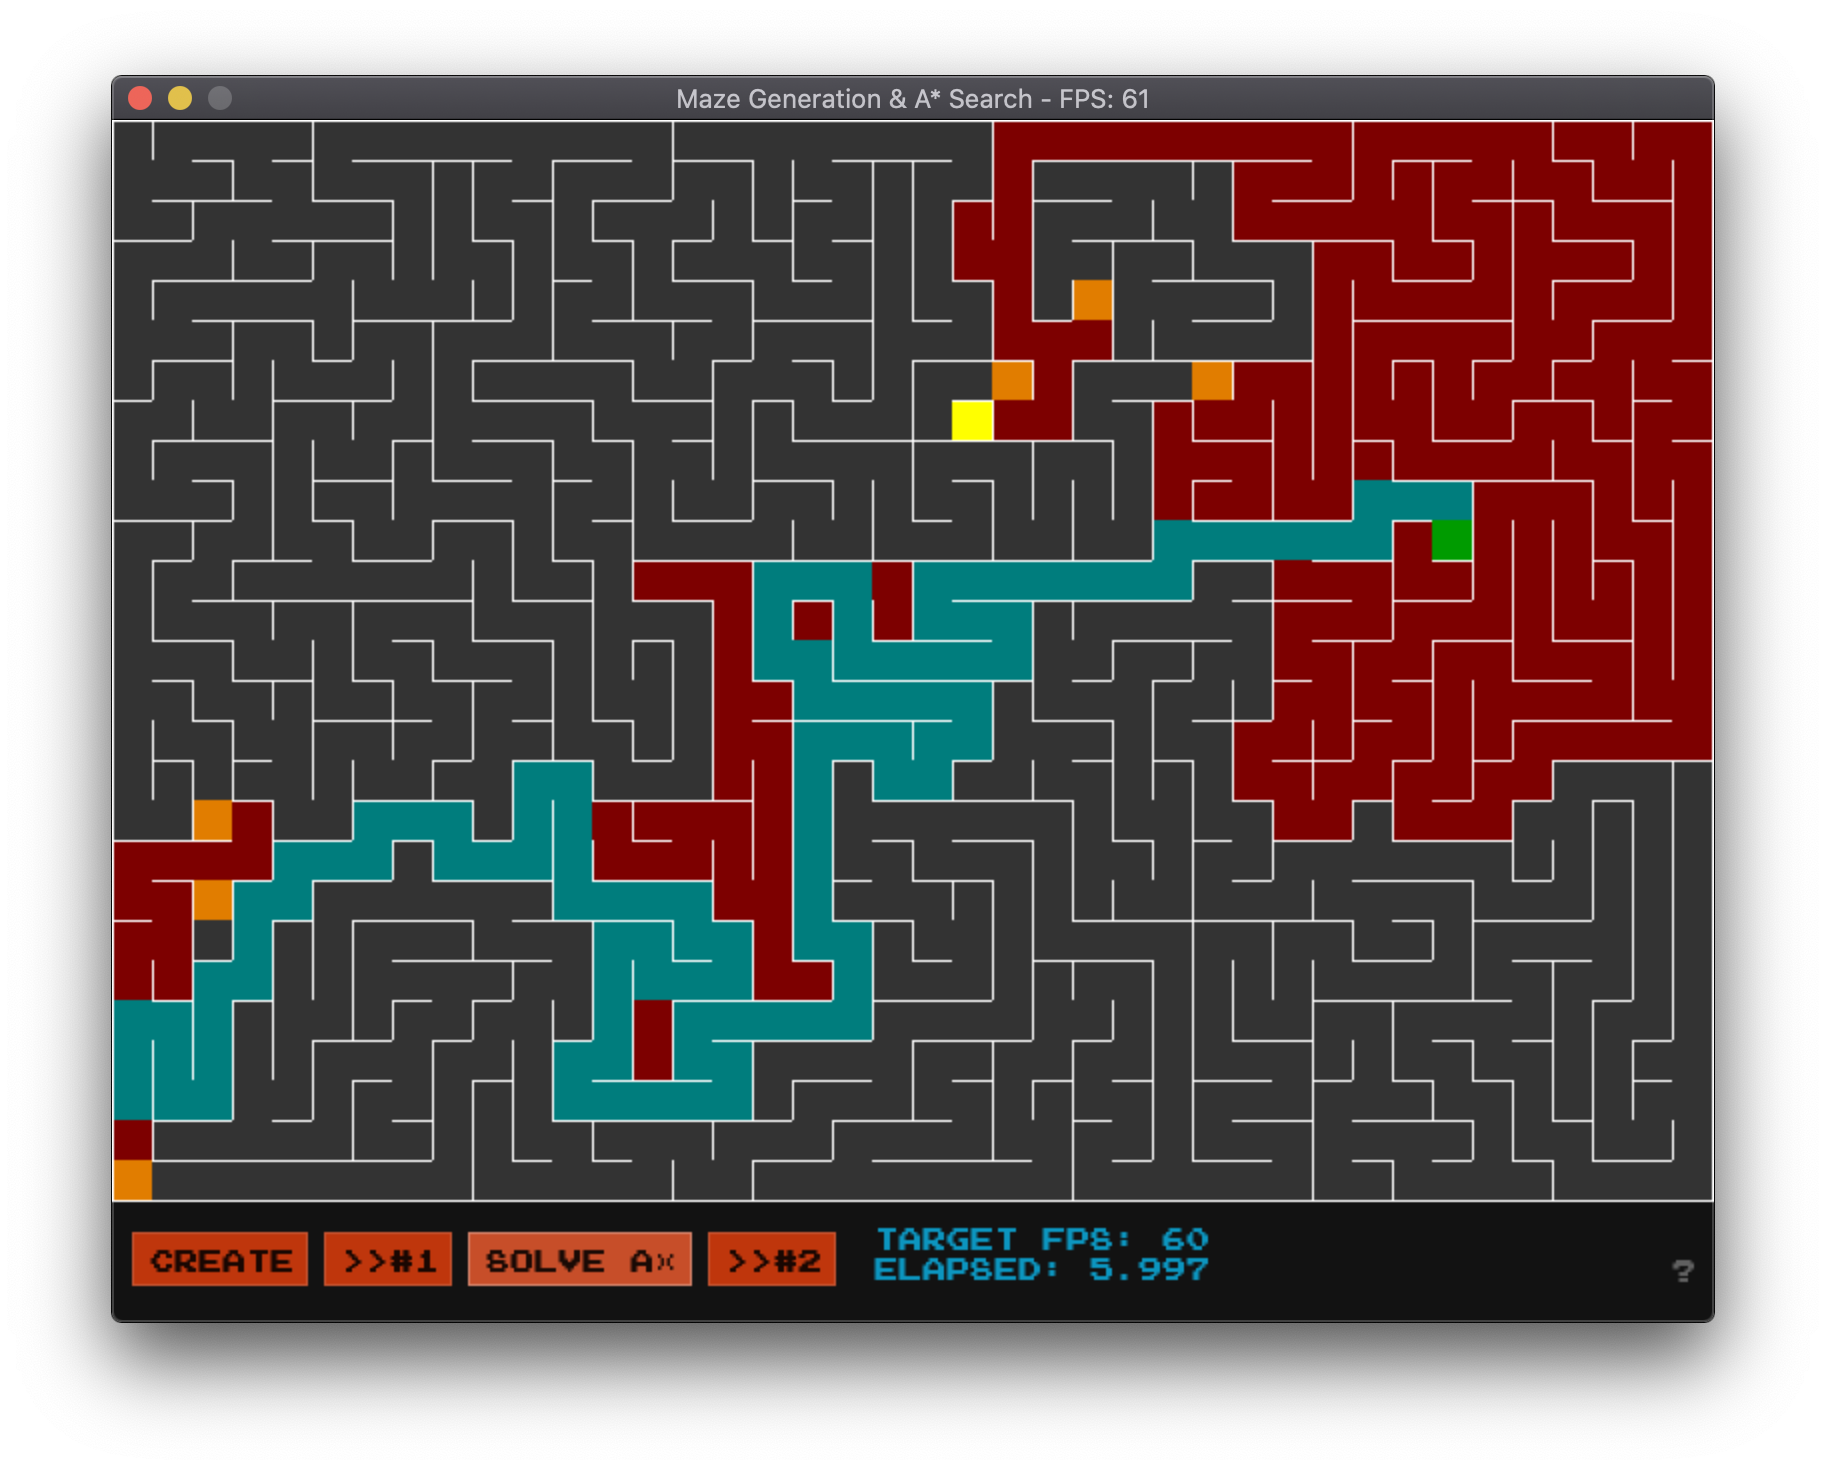
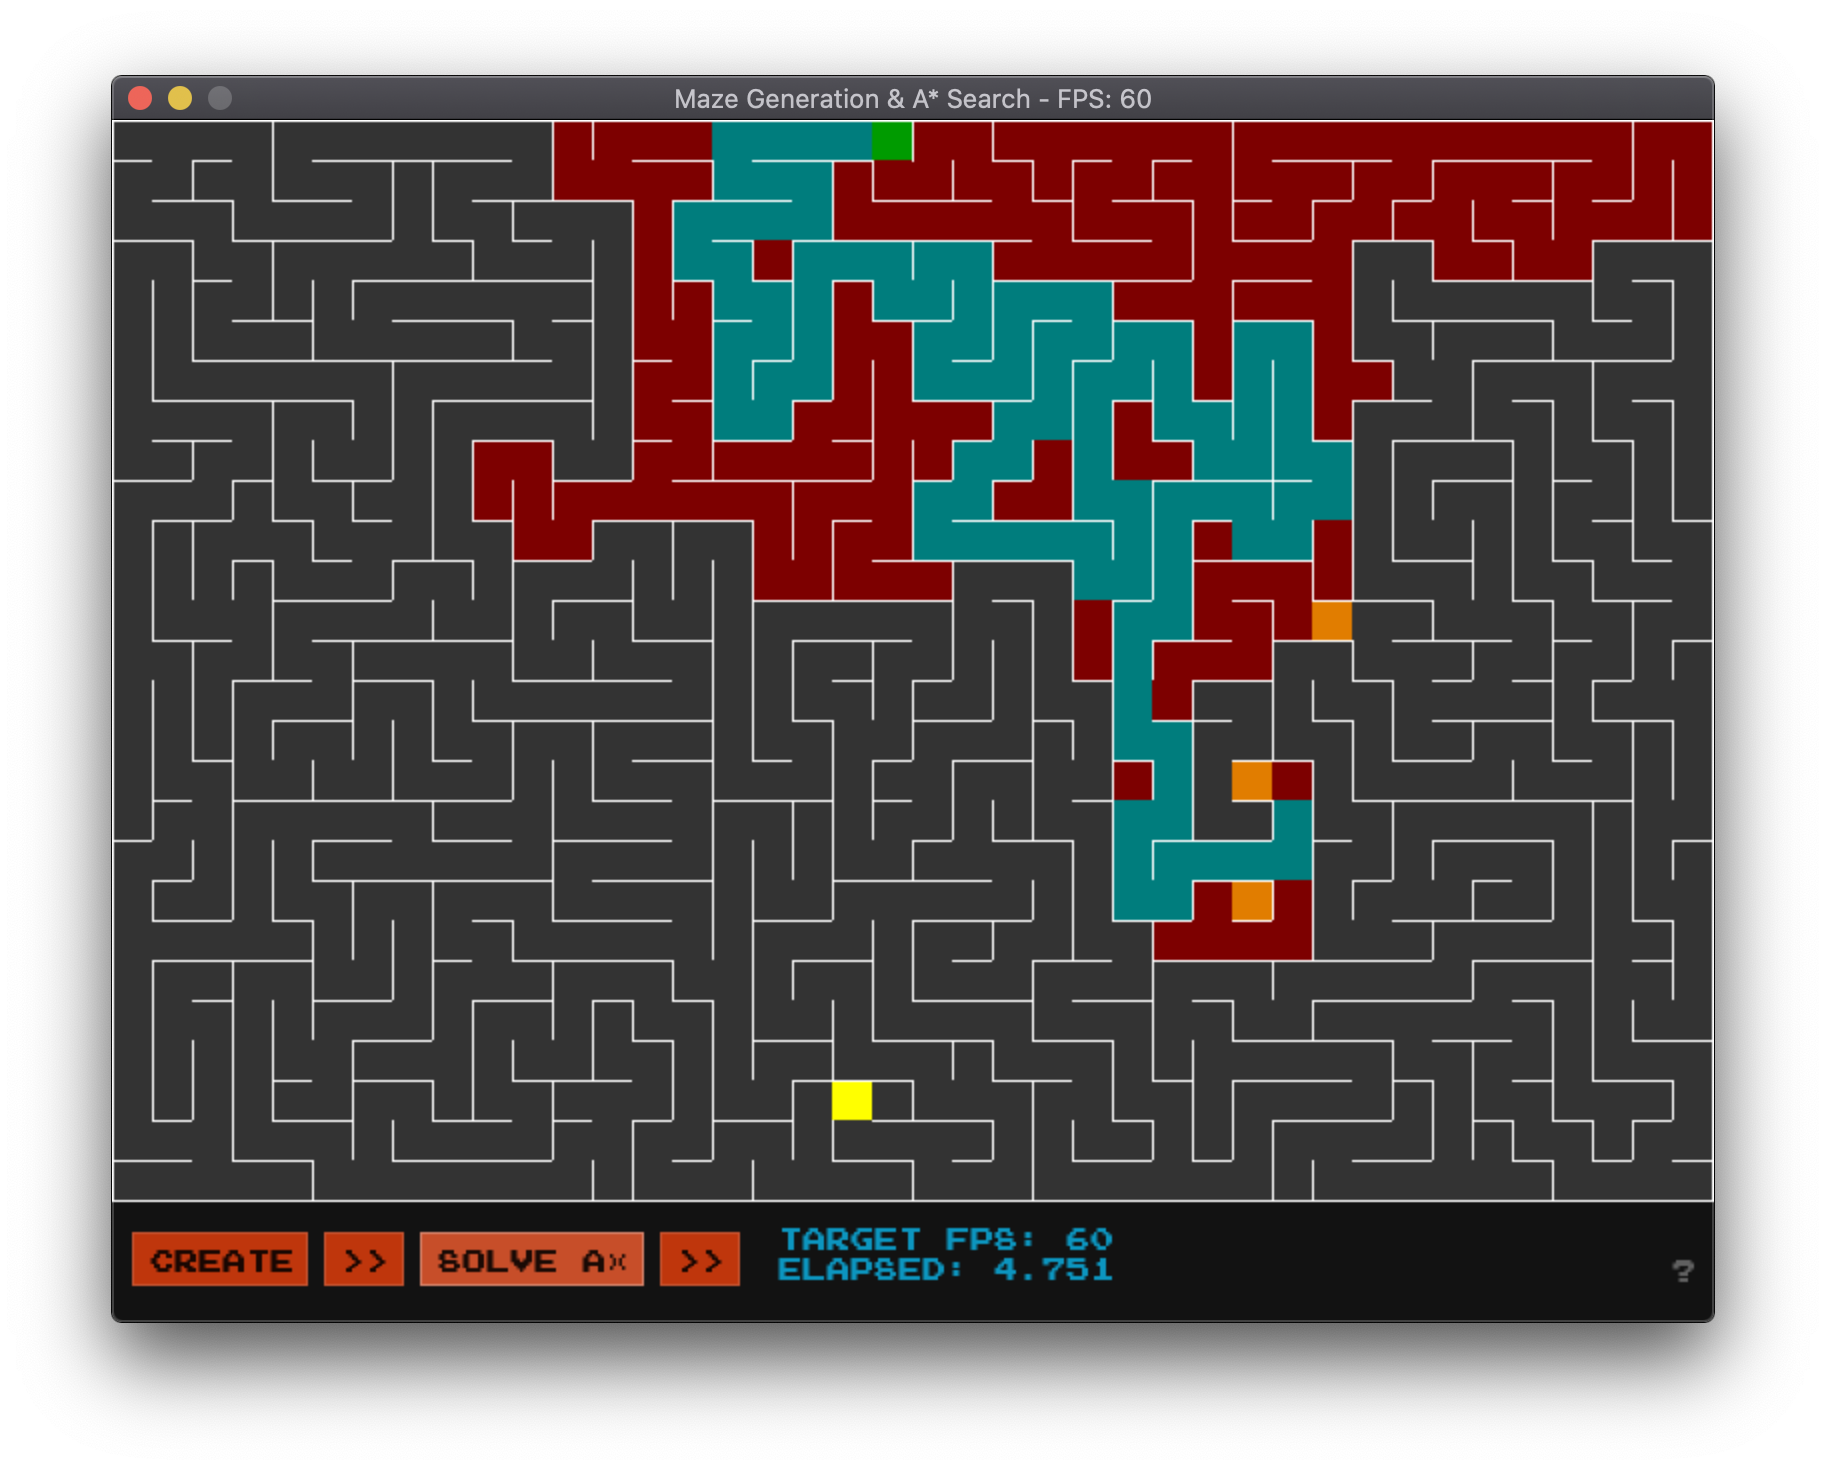
Fixed maze button labels

diff --git a/examples/maze/main.rs b/examples/maze/main.rs
@@ -132,7 +132,7 @@ impl MazeApp {
             self.start_create_maze();
         }
         s.same_line(None);
-        if s.button(">>#1")? {
+        if s.button(">>##1")? {
             self.create_maze()?;
         }
         s.same_line(None);
@@ -140,7 +140,7 @@ impl MazeApp {
             self.start_solve_maze(Algorithm::AStar)?;
         }
         s.same_line(None);
-        if s.button(">>#2")? {
+        if s.button(">>##2")? {
             self.solve_maze()?;
         }
         s.push();
